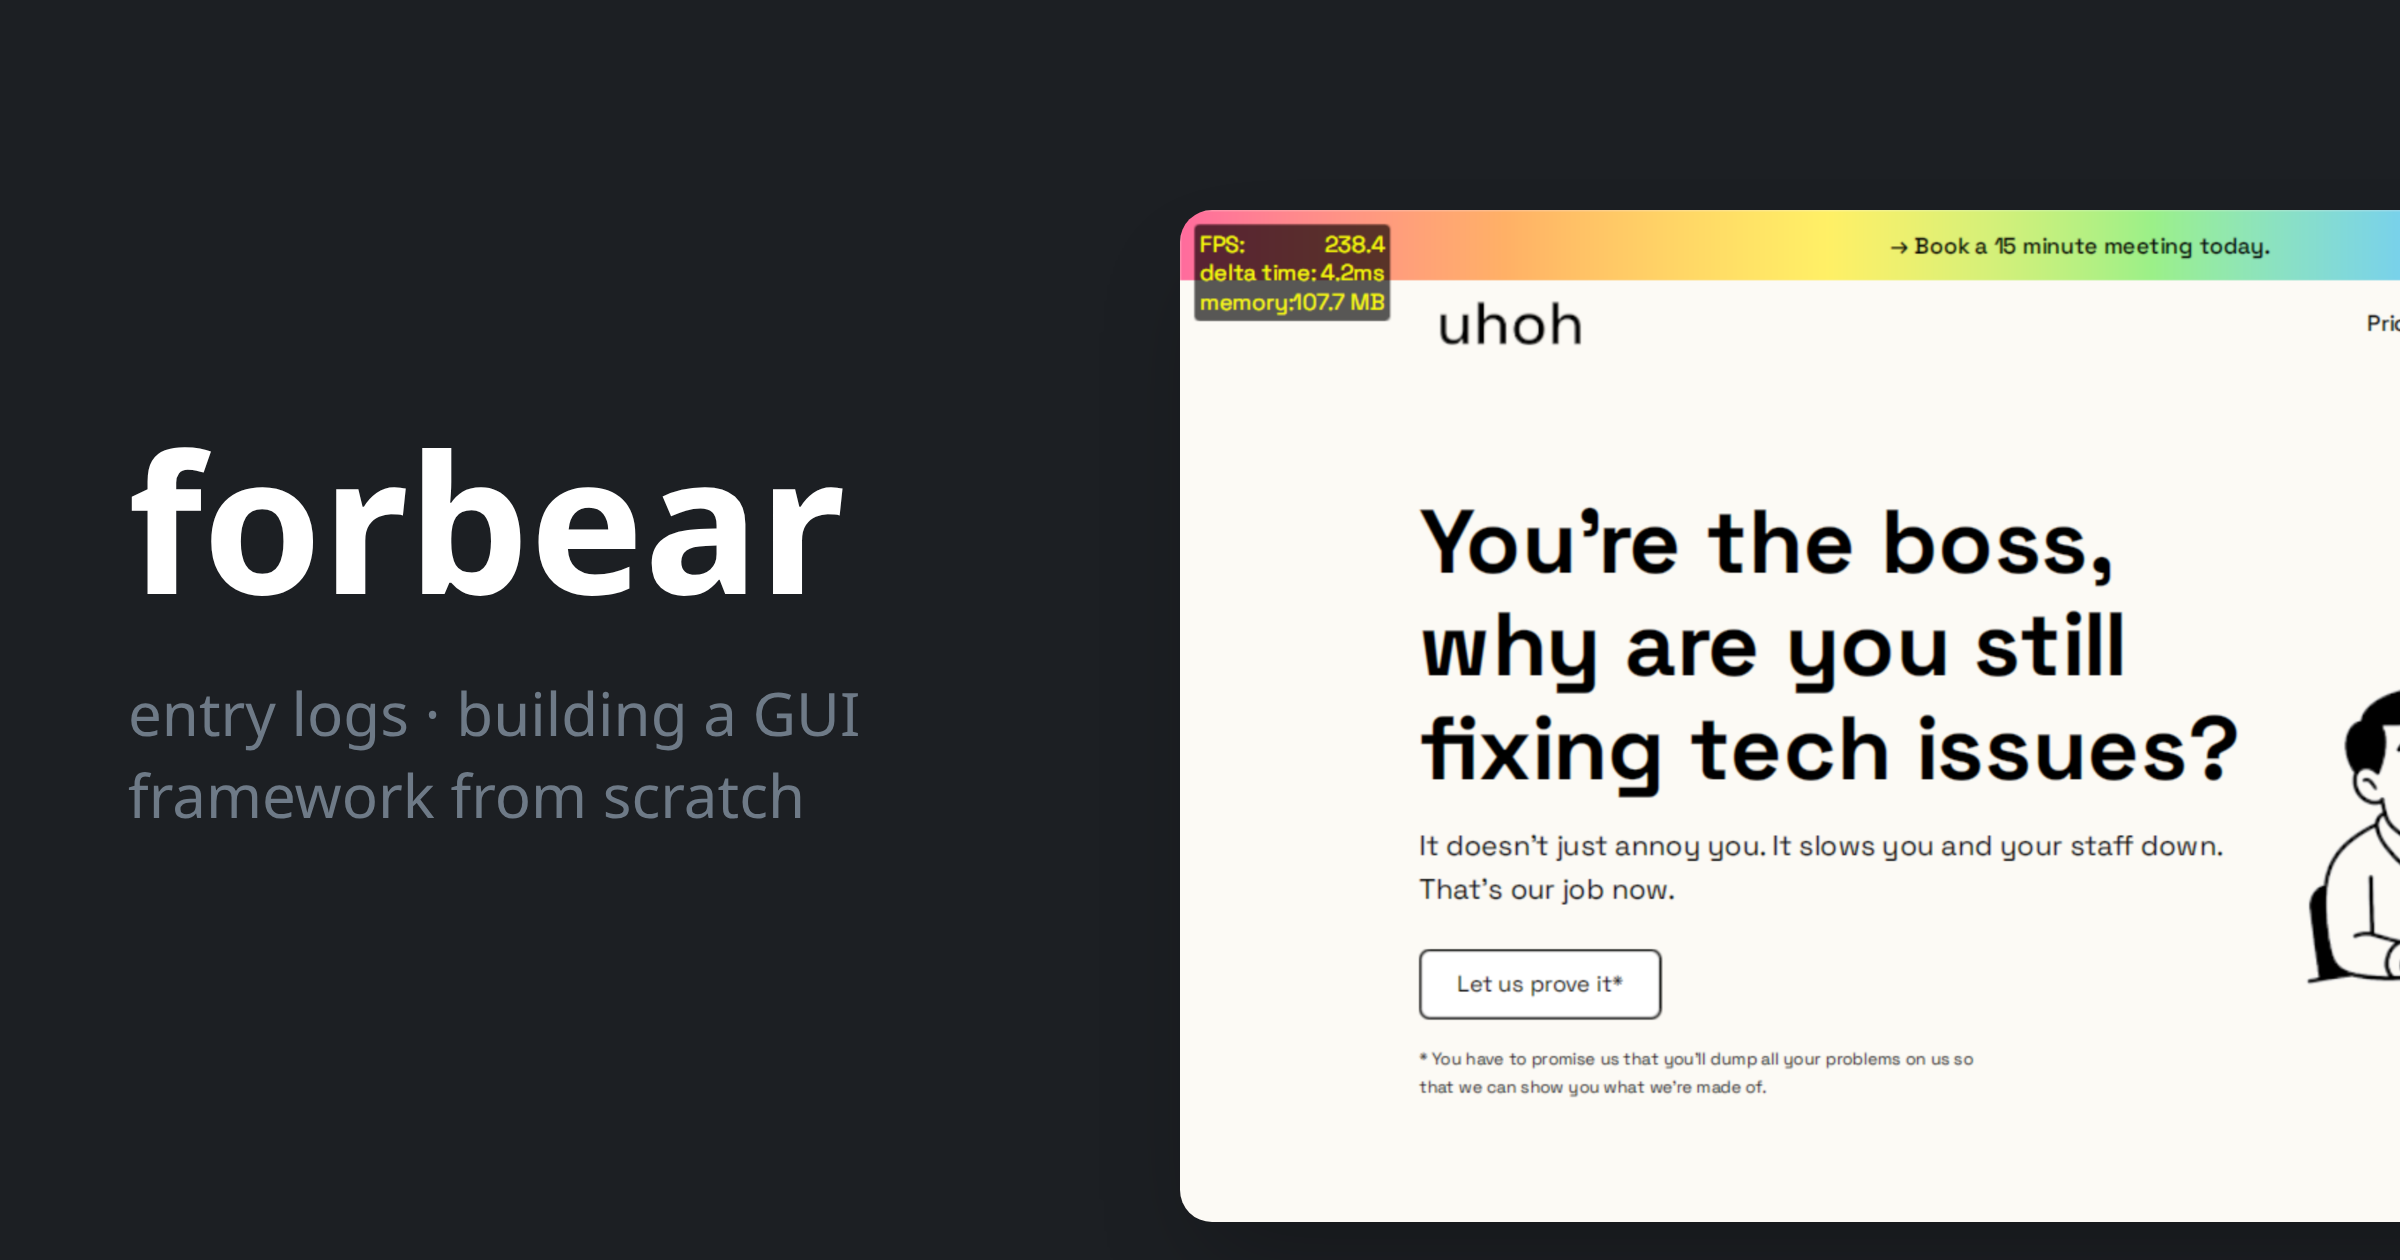
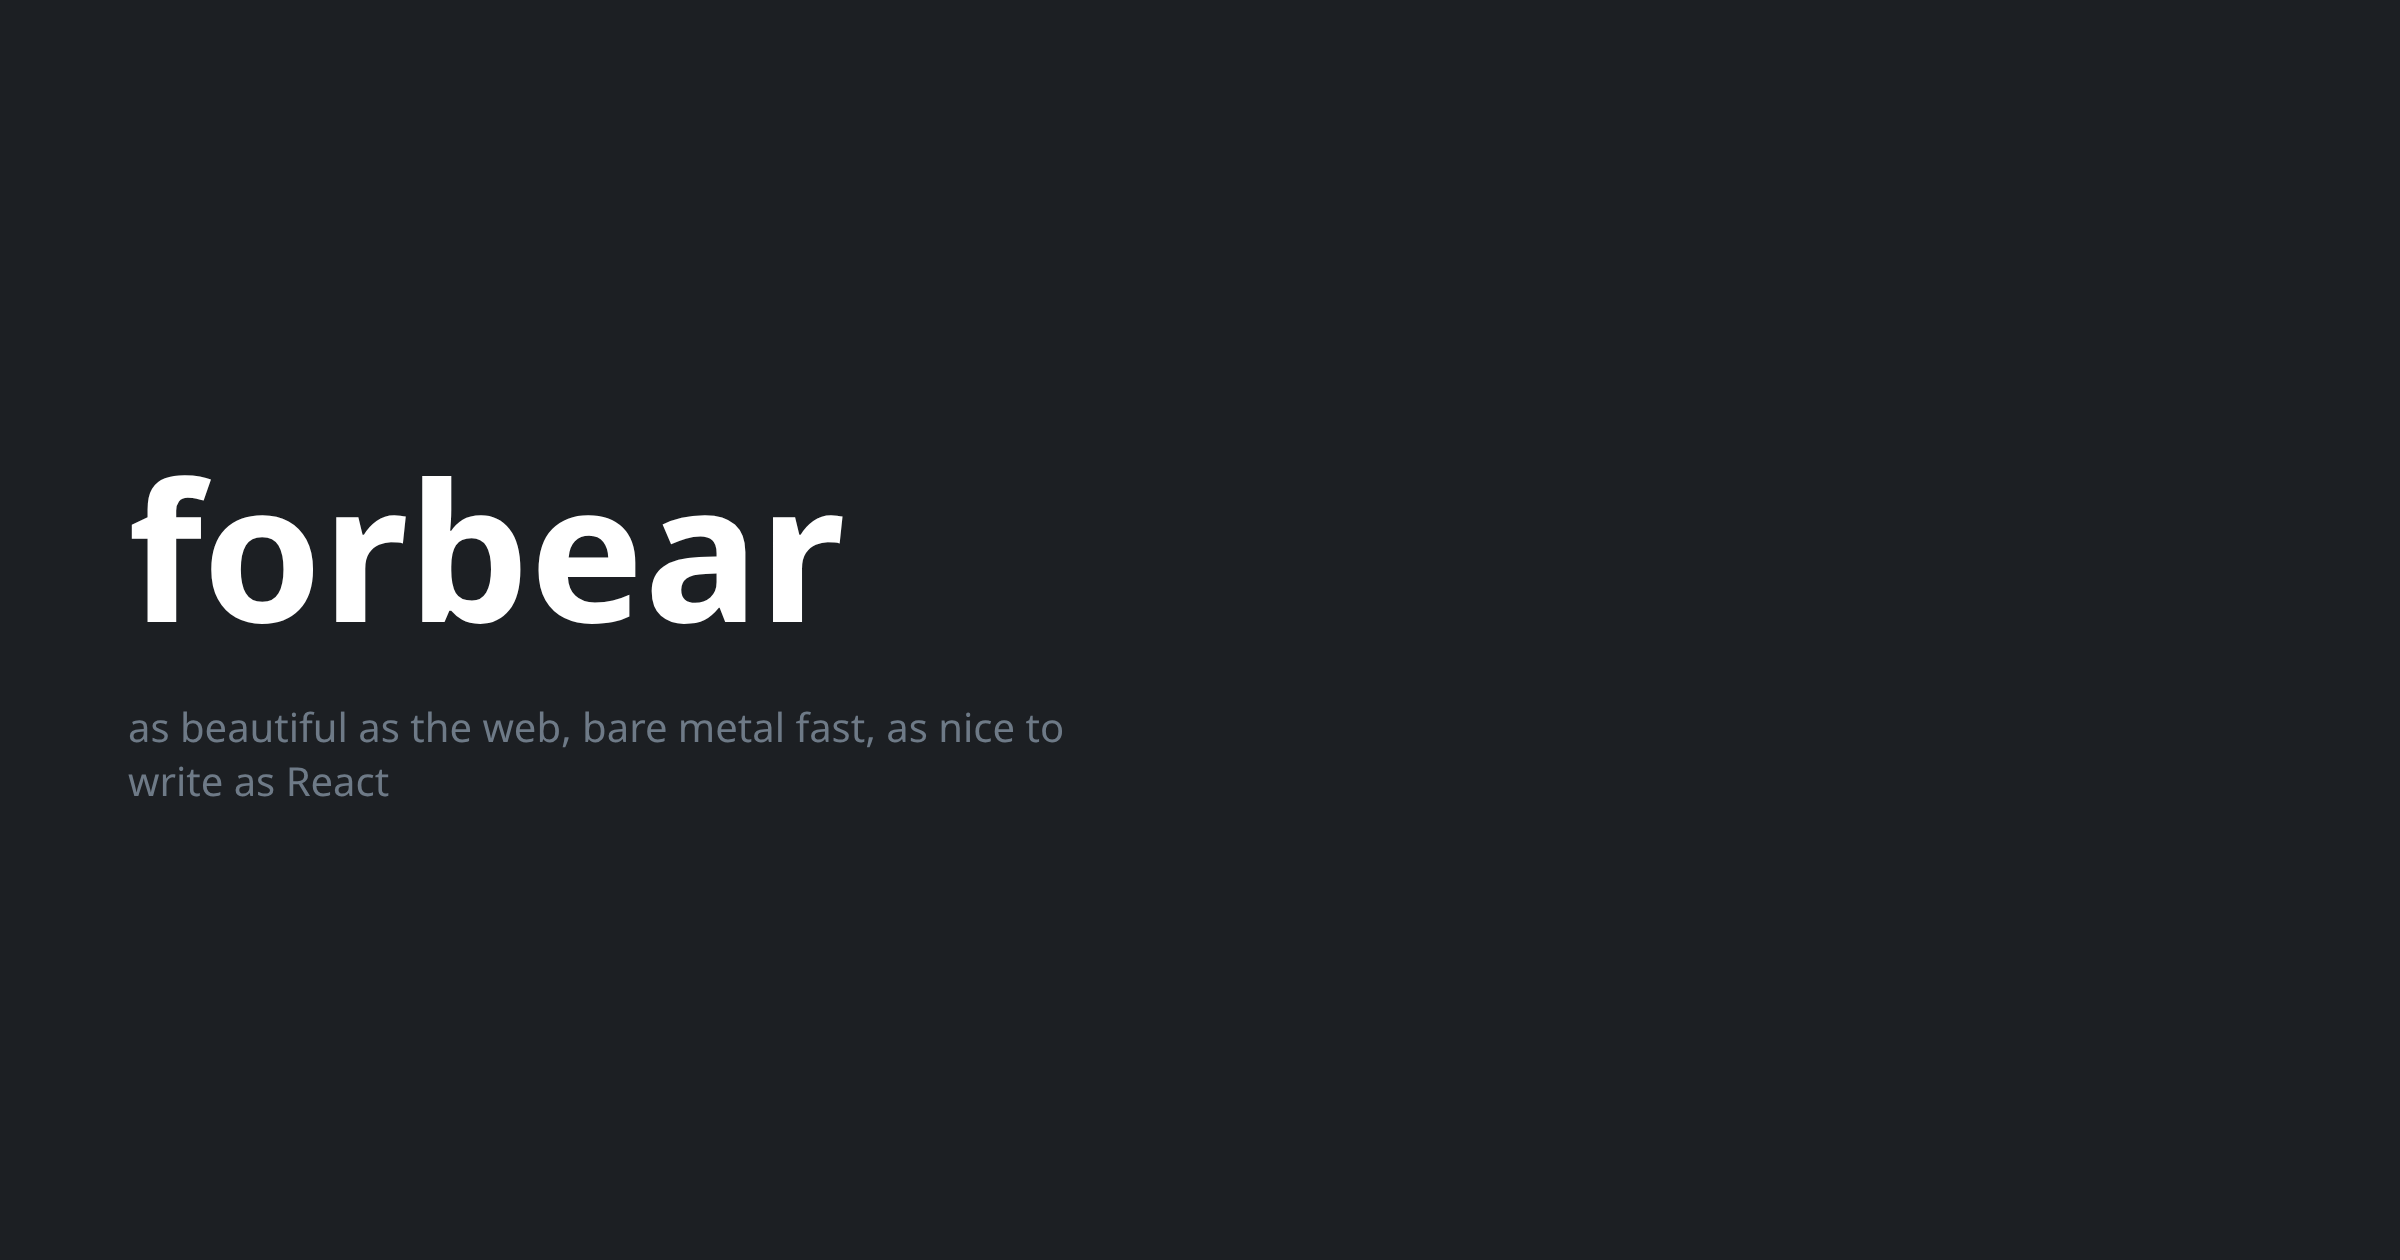
final touches

diff --git a/www/index.html b/www/index.html
@@ -3,12 +3,12 @@
 <head>
 <meta charset="utf-8">
 <meta name="viewport" content="width=device-width, initial-scale=1">
-<title>forbear entry logs</title>
-<meta name="description" content="forbear is a GUI framework. These are my notes on building it.">
+<title>forbear</title>
+<meta name="description" content="as beautiful as the web, bare metal fast, as nice to write as React">
 <meta property="og:type" content="website">
 <meta property="og:url" content="https://www.forbear.dev/">
-<meta property="og:title" content="forbear entry logs">
-<meta property="og:description" content="forbear is a GUI framework. These are my notes on building it.">
+<meta property="og:title" content="forbear">
+<meta property="og:description" content="as beautiful as the web, bare metal fast, as nice to write as React">
 <meta property="og:image" content="https://www.forbear.dev/assets/og-index.png">
 <meta property="og:image:width" content="2400">
 <meta property="og:image:height" content="1260">
@@ -28,6 +28,7 @@
 @layer base {
   body { @apply bg-bg text-fg leading-relaxed; }
   h1 { @apply text-bright text-3xl font-bold mb-8; }
+  h2 { @apply text-bright text-2xl font-bold mt-12 mb-4; }
   p { @apply my-4; }
   a { @apply text-yellow hover:text-bright-yellow; }
 }
@@ -35,14 +36,18 @@
 </head>
 <body>
 <main class="max-w-2xl mx-auto px-4 py-16">
-<h1>forbear entry logs</h1>
+<h1>forbear</h1>
 
-<p>forbear is a GUI framework. These are my notes on building it.</p>
+<p>forbear is a GUI framework: as beautiful as the web, bare metal fast, as nice to write as React.</p>
 
 <p><a href="https://github.com/gabrielmfern/forbear">https://github.com/gabrielmfern/forbear</a></p>
 
+<h2>forbear log</h2>
+
+<p>My notes on building it.</p>
+
 <ul class="my-8">
-<li class="flex gap-4"><span class="text-muted tabular-nums">2026-09-25</span><a href="entries/001-im-rewriting-everything-again.html">entry log 0001: I'm rewriting everything (again)</a></li>
+<li class="flex gap-4"><span class="text-muted tabular-nums">2026-09-25</span><span class="text-muted tabular-nums">001</span><a href="log/001-im-rewriting-everything-again.html">I'm rewriting everything (again)</a></li>
 </ul>
 </main>
 </body>

diff --git a/www/log/001-im-rewriting-everything-again.html b/www/log/001-im-rewriting-everything-again.html
@@ -3,10 +3,10 @@
 <head>
 <meta charset="utf-8">
 <meta name="viewport" content="width=device-width, initial-scale=1">
-<title>entry log 001: I'm rewriting everything (again)</title>
+<title>forbear log, entry 001: I'm rewriting everything (again)</title>
 <meta name="description" content="Why I'm rewriting forbear, my GUI framework, from Zig in Jai, and what I'm doing differently this time.">
 <meta property="og:type" content="article">
-<meta property="og:url" content="https://www.forbear.dev/entries/001-im-rewriting-everything-again.html">
+<meta property="og:url" content="https://www.forbear.dev/log/001-im-rewriting-everything-again.html">
 <meta property="og:title" content="I'm rewriting everything (again)">
 <meta property="og:description" content="Why I'm rewriting forbear, my GUI framework, from Zig in Jai, and what I'm doing differently this time.">
 <meta property="og:image" content="https://www.forbear.dev/assets/og-001.png">
@@ -53,7 +53,7 @@ pre .hl-string-special-symbol { font-style: italic; color: #aeb8c4; }
 </head>
 <body>
 <main class="max-w-2xl mx-auto px-4 py-16">
-<h1>entry log 001: I'm rewriting everything (again)</h1>
+<h1>forbear log, entry 001: I'm rewriting everything (again)</h1>
 
 <p>I'm rewriting forbear from Zig in Jai, from scratch, once again.</p>
 
@@ -218,7 +218,7 @@ pre .hl-string-special-symbol { font-style: italic; color: #aeb8c4; }
 
 <p>Some parts I feel like I got right in the previous version, though, and I believe I'm going to keep them: the <code>node</code>, <code>text</code> and <code>component</code> API, transitions, and text rendering with FreeType and kb_text_shape.</p>
 
-<p>I'll keep writing about it in new entry logs as I go.</p>
+<p>I'll keep writing about it in new log entries as I go.</p>
 
 <p><a href="https://github.com/gabrielmfern/forbear">https://github.com/gabrielmfern/forbear</a></p>
 </main>

diff --git a/www/og/index.html b/www/og/index.html
@@ -17,9 +17,8 @@
 <div id="og" class="relative w-[1200px] h-[630px] overflow-hidden bg-bg">
   <div class="absolute left-16 top-0 bottom-0 w-[470px] flex flex-col justify-center gap-6">
     <h1 class="text-[96px] leading-[1.05] font-bold text-bright">forbear</h1>
-    <p class="text-3xl leading-snug text-muted">entry logs · building a GUI framework from scratch</p>
+    <p class="text-xl leading-snug text-muted">as beautiful as the web, bare metal fast, as nice to write as React</p>
   </div>
-  <img src="../assets/2026-07-forbear-zig-uhoh.png" class="absolute left-[590px] top-[105px] w-[900px] max-w-none rounded-2xl shadow-2xl">
 </div>
 </body>
 </html>

diff --git a/www/og/001-im-rewriting-everything-again.html b/www/og/001-im-rewriting-everything-again.html
@@ -16,9 +16,8 @@
 <body class="m-0">
 <div id="og" class="relative w-[1200px] h-[630px] overflow-hidden bg-bg">
   <div class="absolute left-16 top-0 bottom-0 w-[470px] flex flex-col justify-center gap-6">
-    <p class="text-2xl text-muted">forbear · entry log 001</p>
+    <p class="text-2xl text-muted">forbear log, entry 001</p>
     <h1 class="text-[68px] leading-[1.05] font-bold text-bright">I'm rewriting everything (again)</h1>
-    <p class="text-2xl text-yellow">Zig → Jai</p>
   </div>
   <img src="../assets/2026-07-forbear-zig-uhoh.png" class="absolute left-[590px] top-[105px] w-[900px] max-w-none rounded-2xl shadow-2xl">
 </div>
